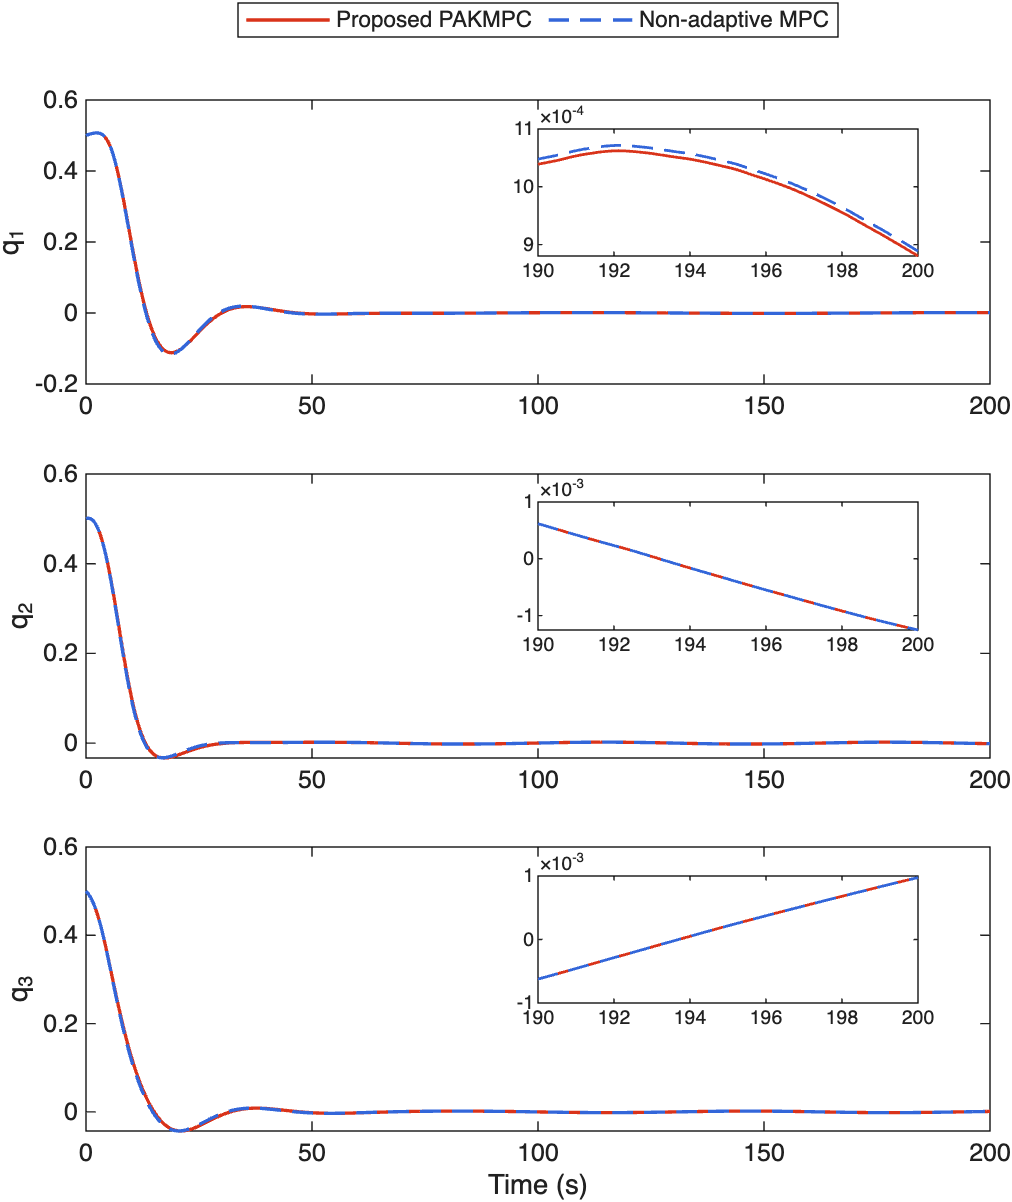
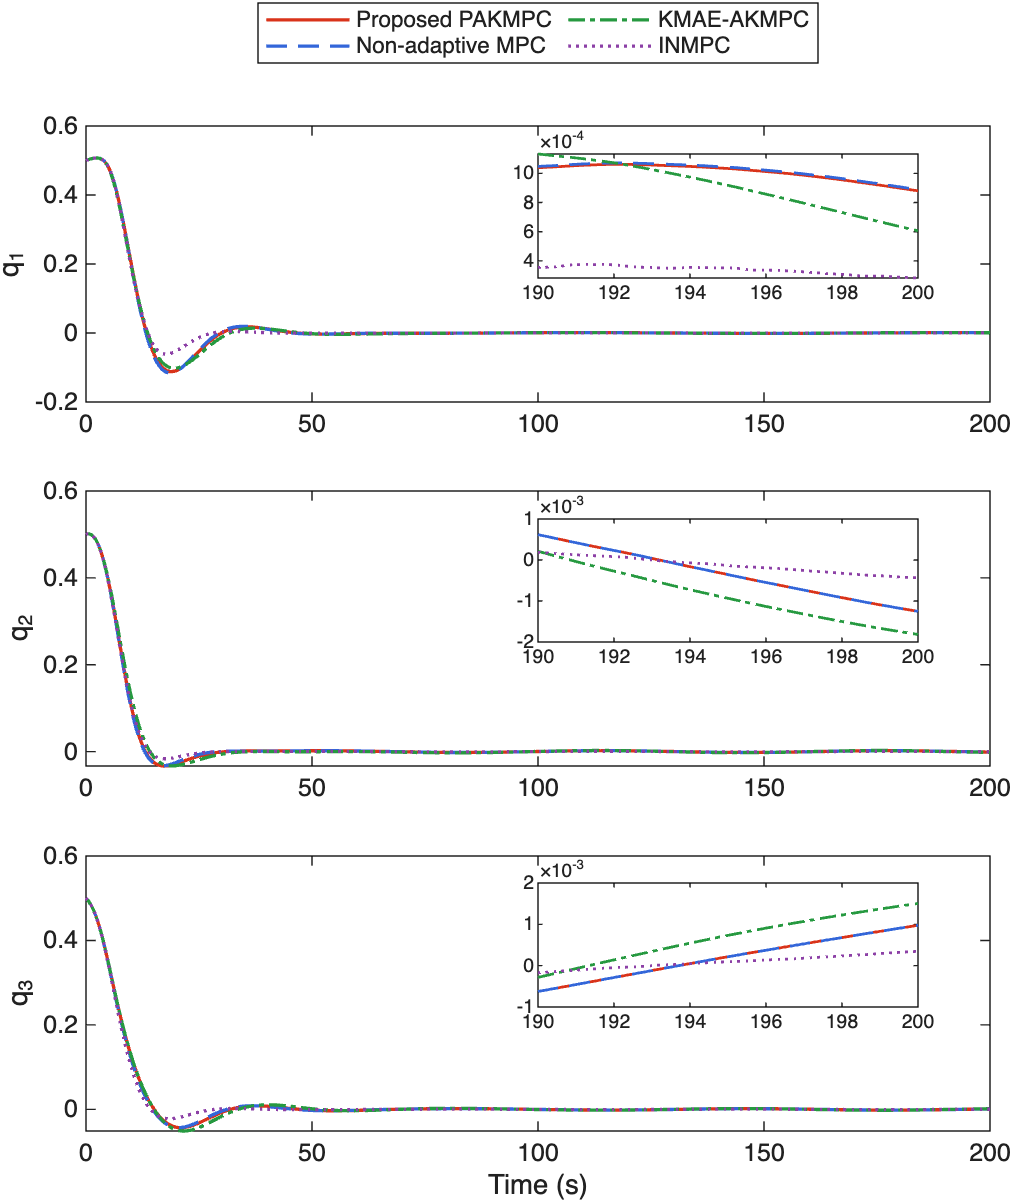
Step 4: KMAE-AKMPC and INMPC baselines in Figs. 6-11 and Table III
kmae_akmpc: RBF-EDMD model trained on Jc0 with RLS on [A B], linear MPC.
incremental_nmpc: incremental model from measured angular acceleration,
fmincon SQP nonlinear MPC. rbf_edmd takes the training inertia and keeps
the Gram matrix for RLS.

diff --git a/lib/incremental_nmpc.m b/lib/incremental_nmpc.m
@@ -1,0 +1,71 @@
+function c = incremental_nmpc(p, opts)
+%INCREMENTAL_NMPC  INMPC baseline of Sec. V-C, after Chen, Xie and Yu [41]: nonlinear MPC on an
+%   incremental model built from measured data.
+%   c = incremental_nmpc(p, opts); then each sample [tau, c, info] = c.step(c, x), as koopman_mpc.
+%   opts fields (all optional):
+%     alpha     low-pass gain on the measured angular acceleration, default 0.5          [guess]
+%     maxit     fmincon iterations per sample, default 30                                [guess]
+%
+%   [paper] "a nonlinear MPC framework that operates directly on an incremental, data-driven model
+%   constructed from system data". [guess] Incremental (INDI-type) model: the angular acceleration
+%   measured over the last sample, wd_0 = (w_k - w_(k-1))/ts under tau_(k-1), lumps the gyroscopic
+%   term, the target torque, the disturbance and the inertia error; over the horizon
+%       w_(i+1) = w_i + ts (wd_0 + Jc0^-1 (tau_i - tau_(k-1))),
+%       q_(i+1) = exp(Omega(w_i) ts) q_i,
+%   with Jc0 = Js the nominal inertia. The cost matches koopman_mpc: p.Q on [w; q] - [0; 1 0 0 0]
+%   for i = 1..N-1, p.R on tau, and the LQR terminal weight P6 of terminal_weight on [w; q_v] at
+%   i = N. fmincon (SQP) solves for tau_0..tau_(N-1) in [-umax, umax], warm-started by the shifted
+%   previous solution.
+
+if nargin < 2, opts = struct(); end
+d = struct('alpha', 0.5, 'maxit', 30);
+f = fieldnames(d);
+for i = 1:numel(f)
+    if ~isfield(opts, f{i}) || isempty(opts.(f{i})), opts.(f{i}) = d.(f{i}); end
+end
+ms = struct('jc0', p.jc0, 'ts', p.ts, 'c', eye(7), 't6', [eye(3) zeros(3, 4); zeros(3, 4) eye(3)]);
+[~, c.p6] = terminal_weight(ms, p);
+c.N = p.N; c.ts = p.ts; c.ji = inv(p.jc0); c.umax = p.umax;
+c.Q = p.Q; c.R = p.R; c.alpha = opts.alpha;
+c.wd = zeros(3, 1); c.wprev = []; c.tauprev = zeros(3, 1);
+c.U = zeros(3, p.N);
+c.opt = optimoptions('fmincon', 'Algorithm', 'sqp', 'Display', 'off', ...
+    'MaxIterations', opts.maxit, 'SpecifyObjectiveGradient', false);
+c.step = @step;
+end
+
+function [tau, c, info] = step(c, x)
+w = x(1:3); q = x(4:7);
+if ~isempty(c.wprev)
+    c.wd = (1 - c.alpha)*c.wd + c.alpha*(w - c.wprev)/c.ts;
+end
+u0 = [c.U(:, 2:end) c.U(:, end)];
+lb = -c.umax*ones(3, c.N); ub = -lb;
+cost = @(u) rollout(c, w, q, reshape(u, 3, c.N));
+[u, ~, flag] = fmincon(cost, u0(:), [], [], [], [], lb(:), ub(:), [], c.opt);
+c.U = reshape(u, 3, c.N);
+tau = min(max(c.U(:, 1), -c.umax), c.umax);
+c.wprev = w; c.tauprev = tau;
+info = struct('mu', 0, 'flag', flag, 'db', 0);
+end
+
+function j = rollout(c, w, q, u)
+qr = [1; 0; 0; 0];
+j = 0;
+for i = 1:c.N
+    du = u(:, i);
+    j = j + du'*c.R*du;
+    a = norm(w)*c.ts/2;
+    if a > 0
+        q = cos(a)*q + sin(a)/a*c.ts*omega_mat(w)*q;
+    end
+    w = w + c.ts*(c.wd + c.ji*(du - c.tauprev));
+    if i < c.N
+        e = [w; q - qr];
+        j = j + e'*c.Q*e;
+    else
+        e = [w; q(2:4)];
+        j = j + e'*c.p6*e;
+    end
+end
+end

diff --git a/lib/kmae_akmpc.m b/lib/kmae_akmpc.m
@@ -1,0 +1,62 @@
+function c = kmae_akmpc(p, opts)
+%KMAE_AKMPC  KMAE-AKMPC baseline of Sec. V-C, after Chen et al. [31]: linear MPC on an RBF-EDMD
+%   Koopman model whose A and B are updated online by recursive least squares (RLS).
+%   c = kmae_akmpc(p, opts); then each sample [tau, c, info] = c.step(c, x), as koopman_mpc.
+%   opts fields (all optional):
+%     lam_f     RLS forgetting factor, default 0.995                                     [guess]
+%     interp    interpolated initial state of koopman_mpc, default false                 [guess]
+%
+%   [paper] "a linear MPC based on a nominal model, which is initially established using the EDMD
+%   method and then continuously updated online via a Recursive Least Squares (RLS) algorithm".
+%   [guess] The nominal model is rbf_edmd (50 thin-plate RBFs) trained on the nominal inertia
+%   Jc0 = Js, so it starts with the same model error as PAKMPC. RLS continues the offline least
+%   squares fit: Theta = [A B] starts at the EDMD solution and P0 = inv(Gram) of the training data,
+%   and each sample the pair (z_(k-1), tau_(k-1)) -> z_k updates Theta. The MPC (cost, weights,
+%   horizon, terminal weight, input bounds) is koopman_mpc with the updated (A, B).
+
+if nargin < 2, opts = struct(); end
+d = struct('lam_f', 0.995, 'interp', false);
+f = fieldnames(d);
+for i = 1:numel(f)
+    if ~isfield(opts, f{i}) || isempty(opts.(f{i})), opts.(f{i}) = d.(f{i}); end
+end
+m = rbf_edmd(p, 50, 1, p.jc0);
+m.bconst0 = m.bconst;                       % offline B, for info.db
+c.inner = koopman_mpc(m, p, struct('interp', opts.interp));
+c.theta = [m.a m.bconst];
+c.pr = inv(m.gram + 1e-9*eye(size(m.gram)));
+c.lam_f = opts.lam_f;
+c.prev = [];
+c.step = @step;
+end
+
+function [tau, c, info] = step(c, x)
+z = c.inner.m.lift(x);
+if ~isempty(c.prev)
+    % RLS on z_k = Theta [z_(k-1); tau_(k-1)]
+    r = c.prev;
+    k = c.pr*r/(c.lam_f + r'*c.pr*r);
+    c.theta = c.theta + (z - c.theta*r)*k';
+    c.pr = (c.pr - k*(r'*c.pr))/c.lam_f;
+    c.pr = (c.pr + c.pr')/2;
+    c.inner = set_model(c.inner, c.theta);
+end
+[tau, c.inner, info] = c.inner.step(c.inner, x);
+c.prev = [z; tau];
+info.db = norm(c.theta(:, end-2:end) - c.inner.m.bconst0);
+end
+
+function ci = set_model(ci, theta)
+% swap (A, B) in the koopman_mpc struct and rebuild its prediction matrices
+m = ci.m; n = m.n; N = ci.N;
+m.a = theta(:, 1:n);
+m.bconst = theta(:, n+1:end);
+bc = m.bconst;
+m.b = @(w, q) bc;
+ak = eye(n);
+for i = 0:N
+    ci.ab(i*n + (1:n), :) = ak;
+    ak = m.a*ak;
+end
+ci.m = m;
+end

diff --git a/lib/rbf_edmd.m b/lib/rbf_edmd.m
@@ -1,16 +1,18 @@
-function m = rbf_edmd(p, nrbf, seed)
+function m = rbf_edmd(p, nrbf, seed, jc)
 %RBF_EDMD  Data-driven Koopman model by EDMD with radial basis functions, Korda and Mezic [22].
 %   Lifted state z = [w; q; psi_1(x); ...; psi_nrbf(x)], size 7 + nrbf (57 for nrbf = 50 as in
 %   Sec. V-B), with thin-plate splines psi_i(x) = r^2 log r, r = ||D (x - c_i)||. A and B are fit by
 %   least squares to one-step data, z+ = A z + B tau, and C = [I7 0].
 %   [guess] The paper does not give the data set. Here: 200 trajectories of 100 samples from
 %   random attitudes and |w_i| <= 0.02 rad/s, inputs uniform in [-umax, umax] held per sample,
-%   simulated on the true inertia p.jc; centers drawn from the data; w scaled by 1/0.05.
+%   simulated on the inertia jc (default the true p.jc); centers drawn from the data; w scaled
+%   by 1/0.05. m.gram = [z; u][z; u]' of the fit, for continuing it by recursive least squares.
 %
 %   Same fields as quat_koopman (the input is tau itself, so tau2u and u2tau are identities).
 
 if nargin < 2, nrbf = 50; end
 if nargin < 3, seed = 1; end
+if nargin < 4, jc = p.jc; end
 rs = RandStream('mt19937ar', 'Seed', seed);
 ntraj = 200; len = 100;
 scale = [ones(3, 1)/0.05; ones(4, 1)];
@@ -22,7 +24,7 @@ for i = 1:ntraj
     xi = [0.02*(2*rand(rs, 3, 1) - 1); randq(rs)];
     for j = 1:len
         ui = p.umax*(2*rand(rs, 3, 1) - 1);
-        [~, xx] = ode45(@(s, y) attitude_ode(y, ui, p.jc), [0 p.ts/2 p.ts], xi, ode);
+        [~, xx] = ode45(@(s, y) attitude_ode(y, ui, jc), [0 p.ts/2 p.ts], xi, ode);
         k = k + 1;
         x(:, k) = xi; u(:, k) = ui;
         xi = xx(end, :)'; xi(4:7) = xi(4:7)/norm(xi(4:7));
@@ -37,7 +39,7 @@ ab = zp/[z; u];
 n = 7 + nrbf;
 
 m.name = 'RBF-based EDMD';
-m.n = n; m.nphi = nan; m.ts = p.ts; m.jc0 = p.jc;
+m.n = n; m.nphi = nan; m.ts = p.ts; m.jc0 = jc;
 m.a = ab(:, 1:n); m.bconst = ab(:, n+1:end);
 m.c = [eye(7) zeros(7, nrbf)];
 m.t6 = [eye(3) zeros(3, 4); zeros(3, 4) eye(3)];
@@ -45,6 +47,7 @@ m.lift = lift;
 m.b = @(w, q) m.bconst;
 m.tau2u = @(w, tau) tau;
 m.u2tau = @(w, u) u;
+m.gram = [z; u]*[z; u]';
 m.fit = norm(zp - ab*[z; u], 'fro')/norm(zp, 'fro');
 end
 

diff --git a/fig6_11_table3_adaptive.m b/fig6_11_table3_adaptive.m
@@ -1,8 +1,8 @@
-%FIG6_11_TABLE3_ADAPTIVE  Figs. 6-11 and Table III of Sun et al.: PAKMPC against non-adaptive MPC
-%   on the combined spacecraft with inertia uncertainty (Jc0 = Js, plant Jc), the target torque of
-%   Eq. (59), the disturbance tau_d and measurement noise, Sec. V-C.
+%FIG6_11_TABLE3_ADAPTIVE  Figs. 6-11 and Table III of Sun et al.: PAKMPC against non-adaptive MPC,
+%   KMAE-AKMPC (kmae_akmpc) and INMPC (incremental_nmpc) on the combined spacecraft with inertia
+%   uncertainty (Jc0 = Js, plant Jc), the target torque of Eq. (59), the disturbance tau_d and
+%   measurement noise, Sec. V-C.
 %   Writes results/fig6_qv.png ... results/fig11_db.png and prints Table III.
-%   KMAE-AKMPC and INMPC (step 4) are added to the controllers list when they exist.
 %
 %   [paper] = quoted from the paper
 %   [guess] = not given in the paper, chosen here
@@ -21,7 +21,9 @@ plant = struct('dist', p.dist, 'target', true, 'noise', true, ...
 ssw = [190 200];                                % [guess] steady-state window, as in the Fig. 6 insets
 
 ctrl = {'Proposed PAKMPC', koopman_mpc(m, p, struct('adapt', true)), '-', [0.85 0.2 0.1];
-        'Non-adaptive MPC', koopman_mpc(m, p), '--', [0.2 0.4 0.85]};
+        'Non-adaptive MPC', koopman_mpc(m, p), '--', [0.2 0.4 0.85];
+        'KMAE-AKMPC', kmae_akmpc(p), '-.', [0.15 0.6 0.25];
+        'INMPC', incremental_nmpc(p), ':', [0.55 0.25 0.65]};
 nc = size(ctrl, 1);
 runs = cell(1, nc); rt = zeros(1, nc);
 for i = 1:nc
